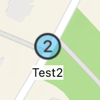
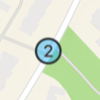
bump images

diff --git a/README.md b/README.md
@@ -2,7 +2,7 @@
 
 Daten- und Stylemodell für die Darstellung von feuerwehrrelevanten Veranstaltungsinformationen auf Karten.
 
-![](Bilder/VeranstaltungsplaeneKarte.png)
+![](Bilder/Veranstaltungsplaene.png)
 
 Das Datenmodell besteht aus vorgegebenen GeoJSON-Properties und einer Style-Vorlage, die applikationsspezifisch umzusetzen ist.
 
@@ -59,15 +59,15 @@ Im folgenden werden die Ausprägungen der einzelnen Punkttypen und deren gedacht
 | Typ | Angedachte Verwendung | Vorschau | Beispiel Feature Properties |
 | --- | ----------- | ----------- | ----------- |
 | `Hinweis (Rot\|Gelb\|Grün\|Blau\|Lila)` | Darstellung von Texthinweisen auf der Karte, nur sinnvoll mit Titel. | ![](Bilder/Hinweis_Gelb.png) | <pre> { <br> &emsp; "Typ": "Hinweis Gelb",<br> &emsp; "Titel": "BOS-WC" <br> } </pre> |
-| `Hinweis Global` | Wie Hinweis, nur ist der Text auch in kleineren Zoomstufen sichtbar. | ![](Bilder/Hinweis_Gelb.png) | <pre> { <br> &emsp; "Typ": "Hinweis Gelb",<br> &emsp; "Titel": "BOS-WC" <br> } </pre> |
-| `Punkt (Rot\|Gelb\|Grün\|Blau\|Lila) ([1-50]\|[A-Z])` | Darstellung von durchnummerierten / durchbuchstabierten Punkten. Der Kontext ergibt sich aus weiteren Kartenelementen der Umgebung oder aus dem optionalen Titel. | ![](Bilder/Punkt_Blau_2.png) | <pre> { <br> &emsp; "Typ": "Punkt Blau 2",<br> &emsp; "Titel": "Test2" <br> } </pre> |
-| `Bereitstellungsraum` | Darstellung von vorgeplanten Orten mit taktischer Bedeutung. |  | |
+| `Hinweis Global` | Wie Hinweis, nur ist der Text auch in kleineren Zoomstufen sichtbar. | ![](Bilder/Hinweis_Global.png) | <pre> { <br> &emsp; "Typ": "Hinweis Gelb",<br> &emsp; "Titel": "Hustädter Kirmes" <br> } </pre> |
+| `Punkt (Rot\|Gelb\|Grün\|Blau\|Lila) ([1-50]\|[A-Z])` | Darstellung von durchnummerierten / durchbuchstabierten Punkten. Der Kontext ergibt sich aus weiteren Kartenelementen der Umgebung oder aus dem optionalen Titel. | ![](Bilder/Punkt_Blau_2.png) | <pre> { <br> &emsp; "Typ": "Punkt Blau 2" <br> } </pre> |
+| `Bereitstellungsraum` | Darstellung von vorgeplanten Orten mit taktischer Bedeutung. |  | <pre> { <br> &emsp; "Typ": "Bereitstellungsraum" <br> } </pre> |
 | `Bereitstellungszone` | Darstellung von vorgeplanten Orten mit taktischer Bedeutung. | ![](Bilder/Bereitstellungszone.png) | <pre> { <br> &emsp; "Typ": "Bereitstellungszone",<br> &emsp; "Titel": "BR-Z W" <br> } </pre> |
 | `Einsatzleitung `| Darstellung von vorgeplanten Orten mit taktischer Bedeutung. | ![](Bilder/Einsatzleitung.png) | <pre> { <br> &emsp; "Typ": "Einsatzleitung",<br> &emsp; "Titel": "EL Fw" <br> } </pre> |
-| `Befehlsstelle` | Darstellung von vorgeplanten Orten mit taktischer Bedeutung. |  | |
-| `Drohnengruppe` | Darstellung von vorgeplanten Orten mit taktischer Bedeutung. |  | |
+| `Befehlsstelle` | Darstellung von vorgeplanten Orten mit taktischer Bedeutung. |  | <pre> { <br> &emsp; "Typ": "Befehlsstelle" <br> } </pre> |
+| `Drohnengruppe` | Darstellung von vorgeplanten Orten mit taktischer Bedeutung. |  | <pre> { <br> &emsp; "Typ": "Drohnengruppe" <br> } </pre> |
 | `Behandlungsplatz` | Darstellung von vorgeplanten Orten mit taktischer Bedeutung. | ![](Bilder/Behandlungsplatz.png) | <pre> { <br> &emsp; "Typ": "Behandlungsplatz",<br> &emsp; "Titel": "UHSt" <br> } </pre> |
-| `Hydrant` | Darstellung von vorgeplanten Orten mit taktischer Bedeutung. |  | <pre> { <br> &emsp; "Typ": "Hydrant",<br> &emsp; "Titel": "DN 100" <br> } </pre> |
+| `Hydrant` | Darstellung von vorgeplanten Orten mit taktischer Bedeutung. | ![](Bilder/Hydrant.png) | <pre> { <br> &emsp; "Typ": "Hydrant",<br> &emsp; "Titel": "DN 100" <br> } </pre> |
 
 Bei der Geometrie sind jeweils sowohl die Einzelobjekte als auch die jeweiligen Multiobjekte möglich (z. B. `Point`, als auch `MultiPoint`).
 
@@ -163,10 +163,8 @@ Im folgenden werden die Ausprägungen der einzelnen Linientypen und deren gedach
 
 | Typ | Angedachte Verwendung | Vorschau | Beispiel Feature Properties |
 | --- | ----------- | ----------- | ----------- |
-| `Richtungspfeil` | Darstellung von Verlaufsrichtungen, z. B. eines Veranstaltungszuges. |  | <pre> { <br> &emsp; "Typ": "Richtungspfeil",<br> &emsp; "Titel": "Marathon" <br> } </pre> |
-| `Zaunanlage` | Darstellung von Zäunen. Sollte in Kombination mit Zugang oder Zufahrt verwendet werden um Zugangsmöglichkeiten darzustellen. |  | <pre> { <br> &emsp; "Typ": "Zaunanlage",<br> &emsp; "Titel": "Zaun" <br> } </pre> |
-
-
+| `Richtungspfeil (Rot\|Gelb\|Grün\|Blau\|Lila)` | Darstellung von Verlaufsrichtungen, z. B. eines Veranstaltungszuges. | ![](Bilder/Richtungspfeil_Lila.png) | <pre> { <br> &emsp; "Typ": "Richtungspfeil" <br> } </pre> |
+| `Zaunanlage` | Darstellung von Zäunen. Sollte in Kombination mit Zugang oder Zufahrt verwendet werden um Zugangsmöglichkeiten darzustellen. | ![](Bilder/Zaunanlage.png) | <pre> { <br> &emsp; "Typ": "Zaunanlage",<br> &emsp; "Titel": "Zaun" <br> } </pre> |
 
 Bei der Geometrie sind jeweils sowohl die Einzelobjekte als auch die jeweiligen Multiobjekte möglich (z. B. `LineString` als auch `MultiLineString`).
 
@@ -176,20 +174,28 @@ Im folgenden werden die Ausprägungen der einzelnen Polygontypen und deren gedac
 
 | Typ | Angedachte Verwendung | Vorschau | Beispiel Feature Properties |
 | --- | ----------- | ----------- | ----------- |
-| `Fläche (Rot\|Gelb\|Grün\|Blau\|Lila)` | Darstellung von Veranstaltungsflächen mit unterschiedlichen Farben. | ![](Bilder/Flaeche_Lila.png) | <pre> { <br> &emsp; "Typ": "Fläche Lila",<br> &emsp; "Titel": "Veranstaltungsgelände" <br> } </pre> |
-| `Aufbauten` | Darstellung von Veranstaltungsaufbauten, z. B. Hütten / Stände oder ähnliches. |  | <pre> { <br> &emsp; "Typ": "Aufbauten",<br> &emsp; "Titel": "100",<br> &emsp; "Gefahren": "Gas" <br> } </pre> |
-| `Aufstellfläche` | Vordefinierte Aufstellflächen für die Feuerwehr. | |  |
+| `Fläche (Rot\|Gelb\|Grün\|Blau\|Lila)` | Darstellung von Veranstaltungsflächen mit unterschiedlichen Farben. | ![](Bilder/Flaeche_Rot.png) | <pre> { <br> &emsp; "Typ": "Fläche Rot" <br> } </pre> |
+| `Aufbauten` | Darstellung von Veranstaltungsaufbauten, z. B. Hütten / Stände oder ähnliches. | ![](Bilder/Aufbauten.png) | <pre> { <br> &emsp; "Typ": "Aufbauten",<br> &emsp; "Titel": "100" <br> } </pre> |
+| `Aufstellfläche` | Vordefinierte Aufstellflächen für die Feuerwehr. | ![](Bilder/Aufstellflaeche.png) | <pre> { <br> &emsp; "Typ": "Aufstellfläche",<br> &emsp; "Titel": "LHF20" <br> } </pre> |
 | `(Feste\|Mobile\|Teilmobile) Sperre` | Sperre im Rahmen des Veranstaltungsschutzes. | ![](Bilder/Feste_Sperre.png) | <pre> { <br> &emsp; "Typ": "Feste Sperre",<br> &emsp; "Titel": "Sperre 4" <br> } </pre> |
-| `Indutainer` | Sperre im Rahmen des Veranstaltungsschutzes. |  | <pre> { <br> &emsp; "Typ": "Indutainer",<br> &emsp; "Titel": "Indutainer 27" <br> } </pre> |
-| `Zugang` | Zugangsmöglichkeiten zu einem Gebäude / Gelände. |  | <pre> { <br> &emsp; "Typ": "Zugang" <br> } </pre> |
+| `Indutainer` | Sperre im Rahmen des Veranstaltungsschutzes. | ![](Bilder/Indutainer.png) | <pre> { <br> &emsp; "Typ": "Indutainer",<br> &emsp; "Titel": "Indutainer 27" <br> } </pre> |
+| `Zugang` | Zugangsmöglichkeiten zu einem Gebäude / Gelände. | ![](Bilder/Zugang.png) | <pre> { <br> &emsp; "Typ": "Zugang" <br> } </pre> |
 | `Zufahrt` | Zufahrtsmöglichkeiten zu der Veranstaltung. | ![](Bilder/Zufahrt.png) | <pre> { <br> &emsp; "Typ": "Zufahrt" <br> } </pre> |
-
 
 Bei der Geometrie sind jeweils sowohl die Einzelobjekte als auch die jeweiligen Multiobjekte möglich (z. B. `Polygon` als auch `MultiPolygon`).
 
+### Hilfspunkttypen
+
+Im folgenden werden die Ausprägungen der einzelnen Spezialfälle in Form von Hilfspunkttypen und deren gedachter Anwendungszweck definiert:
+
+| Typ | Angedachte Verwendung | Vorschau | Beispiel Feature Properties |
+| --- | ----------- | ----------- | ----------- |
+| `Aufbauten` (Polygon) | Darstellung Gefahren bei Aufbauten. | ![](Bilder/Aufbauten_Gas.png) | <pre> { <br> &emsp; "Typ": "Aufbauten",<br> &emsp; "Titel": "27",<br> &emsp; "Gefahren": "Gas" <br> } </pre> |
+
+
 ### JSON schema
 
-Für die drei Ebenen existiert jeweils auch ein json.schema:
+Für die drei Ebenen existiert jeweils auch ein json.schema, das zur Validierung der Geodaten genutzt werden kann:
 
 - [Punktebene Schema](.schemas/Veranstaltungen_p.schema.json)
 - [Linienebene Schema](.schemas/Veranstaltungen_p.schema.json)
@@ -197,7 +203,7 @@ Für die drei Ebenen existiert jeweils auch ein json.schema:
 
 ## Stylemodell
 
-Die Darstellung der Daten ist applikationsspezifisch umzusetzen. 
+Die Darstellung der Daten ist applikationsspezifisch umzusetzen und **nicht Teil des GeoJSON Datenmodells**. Das Stylemodell muss nicht als Teil der Daten zur Verfügung gestellt werden.
 
 #### Punkttypen
 